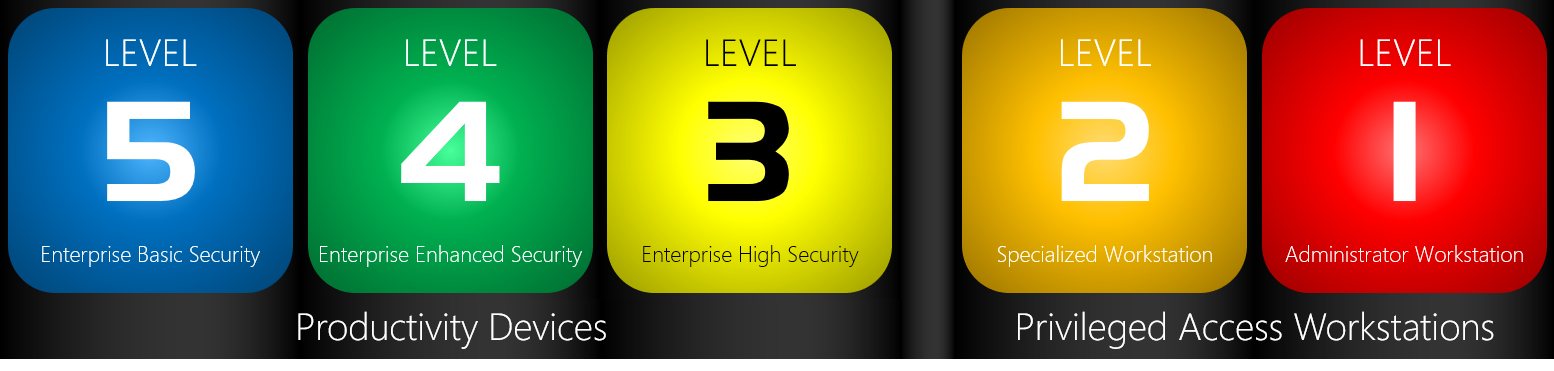
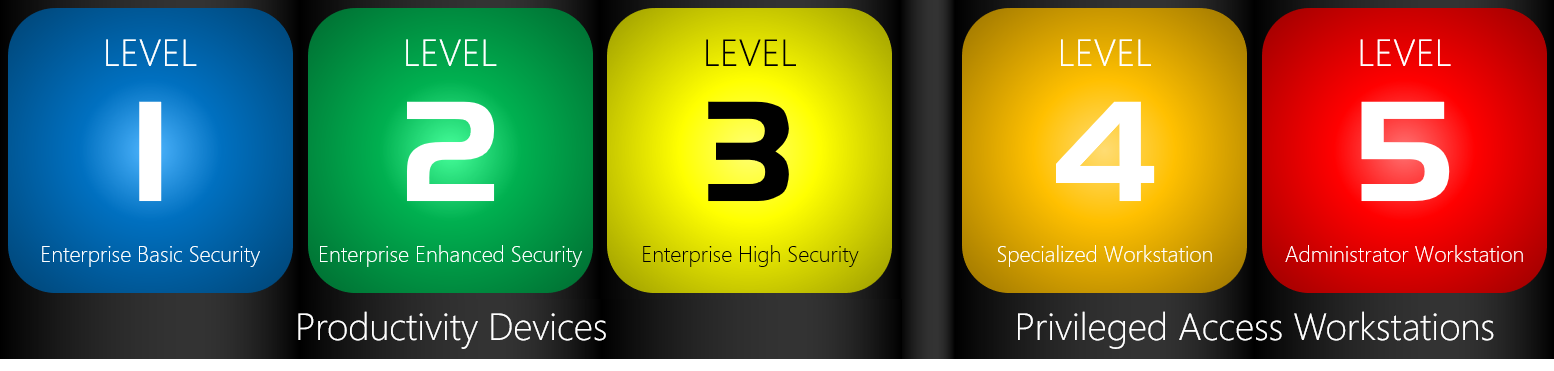
Inverted numbering scheme to align to ascending pattern from HW security and SecureScore

diff --git a/windows/security/threat-protection/windows-security-configuration-framework/level-2-enterprise-enhanced-security.md b/windows/security/threat-protection/windows-security-configuration-framework/level-2-enterprise-enhanced-security.md
@@ -1,6 +1,6 @@
 ---
-title: Level 4 enterprise high security configuration
-description: Describes the policies, controls, and organizational behaviors for Windows security configuration framework level 4 enterprise security configuration.
+title: Level 2 enterprise enhanced security configuration
+description: Describes the policies, controls, and organizational behaviors for Windows security configuration framework level 2 enterprise security configuration.
 keywords: virtualization, security, malware
 ms.prod: w10
 ms.mktglfcycl: deploy
@@ -11,21 +11,21 @@ manager: dansimp
 audience: ITPro
 ms.collection: M365-security-compliance
 ms.topic: conceptual
-ms.date: 04/05/2018
+ms.date: 05/29/2019
 ---
 
-# Level 4 Enterprise Enhanced Security configuration
+# Level 2 enterprise enhanced security configuration
 
 **Applies to**  
 
 -   Windows 10
 
-Level 4 is the security configuration recommended as a standard for devices where users access more sensitive information. These devices are a natural target in enterprises today. While targeting high levels of security, these recommendations do not assume a large staff of highly skilled security practitioners, and therefore should be accessible to most enterprise organizations.
-A level 4 configuration should include all the configurations from level 5 and add the following security policies, controls, and organizational behaviors.
+Level 2 is the security configuration recommended as a standard for devices where users access more sensitive information. These devices are a natural target in enterprises today. While targeting high levels of security, these recommendations do not assume a large staff of highly skilled security practitioners, and therefore should be accessible to most enterprise organizations.
+A level 2 configuration should include all the configurations from level 1 and add the following security policies, controls, and organizational behaviors.
 
 ## Hardware
 
-Devices targeting Level 4 should support all Level 5 features, and add the following hardware features:
+Devices targeting level 2 should support all level 1 features, and add the following hardware features:
 
 - [Virtualization and HVCI Enabled](https://docs.microsoft.com/en-us/windows-hardware/design/device-experiences/oem-vbs)
 - [Drivers and Apps HVCI-Ready](https://docs.microsoft.com/en-us/windows-hardware/test/hlk/testref/driver-compatibility-with-device-guard)
@@ -34,14 +34,14 @@ Devices targeting Level 4 should support all Level 5 features, and add the follo
 
 ## Policies
 
-The policies enforced in level 4 include all of the policies recommended for level 5 and adds the
+The policies enforced in level 2 include all of the policies recommended for level 1 and adds the
 below policies to implement more controls and a more sophisticated security
-configuration than level 5. While they may have a slightly higher impact to
+configuration than level 1. While they may have a slightly higher impact to
 users or to applications, they enforce a level of security more commensurate
 with the risks facing users with access to sensitive information. Microsoft
 recommends using [the rings methodology](https://docs.microsoft.com/windows/deployment/update/waas-deployment-rings-windows-10-updates) for these security configurations and
 controls, with a moderate timeline that is anticipated to be slightly longer
-than the process in level 5.
+than the process in level 1.
 
 ### Security Template Policies
 
@@ -100,13 +100,13 @@ Microsoft recommends disabling the following services when their use is not requ
 
 ## Controls
 
-The controls enforced in level 4 implement more controls and a more sophisticated security
-configuration than level 5. While they may have a slightly higher impact to
+The controls enforced in level 2 implement more controls and a more sophisticated security
+configuration than level 1. While they may have a slightly higher impact to
 users or to applications, they enforce a level of security more commensurate
 with the risks facing users with access to sensitive information. Microsoft
 recommends using the Audit/Enforce methodology for controls with an Audit mode,
 and [the rings methodology](https://docs.microsoft.com/windows/deployment/update/waas-deployment-rings-windows-10-updates) for those that do not, with a moderate timeline that
-is anticipated to be slightly longer than the process in level 5.
+is anticipated to be slightly longer than the process in level 1.
 
 | Feature Set                                                 | Feature                                               | Description    |
 |-------------------------------------------------------------|-------------------------------------------------------|----------------|
@@ -118,7 +118,7 @@ is anticipated to be slightly longer than the process in level 5.
 
 ## Behaviors
 
-The behaviors recommended in level 4 implement a more sophisticated security process. While they may require a more sophisticated organization, they enforce
+The behaviors recommended in level 2 implement a more sophisticated security process. While they may require a more sophisticated organization, they enforce
 a level of security more commensurate with the risks facing users with access to
 sensitive information.
 

diff --git a/windows/security/threat-protection/windows-security-configuration-framework/level-1-enterprise-basic-security.md b/windows/security/threat-protection/windows-security-configuration-framework/level-1-enterprise-basic-security.md
@@ -1,6 +1,6 @@
 ---
-title: Level 5 enterprise security configuration
-description: Describes the policies, controls, and organizational behaviors for Windows security configuration framework level 5 enterprise security configuration.
+title: Level 1 enterprise basic security configuration
+description: Describes the policies, controls, and organizational behaviors for Windows security configuration framework level 1 enterprise security configuration.
 keywords: virtualization, security, malware
 ms.prod: w10
 ms.mktglfcycl: deploy
@@ -11,21 +11,21 @@ manager: dansimp
 audience: ITPro
 ms.collection: M365-security-compliance
 ms.topic: conceptual
-ms.date: 04/05/2018
+ms.date: 05/29/2019
 ---
 
-# Level 5 Enterprise Basic Security configuration 
+# Level 1 Enterprise Basic Security configuration 
 
 **Applies to**  
 
 -   Windows 10
 
-Level 5 is the minimum security configuration for an enterprise device.
-Microsoft recommends the following configuration for level 5 devices.
+Level 1 is the minimum security configuration for an enterprise device.
+Microsoft recommends the following configuration for level 1 devices.
 
 ## Hardware
 
-Devices targeting Level 5 should support the following hardware features:
+Devices targeting Level 1 should support the following hardware features:
 
 - [Trusted Platform Module (TPM) 2.0](https://docs.microsoft.com/en-us/windows-hardware/design/device-experiences/oem-tpm)
 - [Bitlocker Drive Encryption](https://docs.microsoft.com/en-us/windows-hardware/design/device-experiences/oem-bitlocker)
@@ -34,7 +34,7 @@ Devices targeting Level 5 should support the following hardware features:
 
 ## Policies
 
-The policies in level 5 enforce a reasonable security level while minimizing the impact to users or to applications. 
+The policies in level 1 enforce a reasonable security level while minimizing the impact to users or to applications. 
 Microsoft recommends using [the rings methodology](https://docs.microsoft.com/windows/deployment/update/waas-deployment-rings-windows-10-updates) for these security configurations and controls, noting that the timeline can generally be short given the limited potential impact of the security controls.
 
 ### Security Template Policies
@@ -336,7 +336,7 @@ Microsoft recommends using [the rings methodology](https://docs.microsoft.com/wi
 
 ## Controls
 
-The controls enabled in level 5 enforce a reasonable security level while minimizing the impact to users and applications. 
+The controls enabled in level 1 enforce a reasonable security level while minimizing the impact to users and applications. 
 
 | Feature                           | Config                              | Description        |
 |-----------------------------------|-------------------------------------|--------------------|
@@ -350,7 +350,7 @@ The controls enabled in level 5 enforce a reasonable security level while minimi
 
 ## Behaviors
 
-The behaviors recommended in level 5 enforce a reasonable security level while minimizing the impact to users or to applications.
+The behaviors recommended in level 1 enforce a reasonable security level while minimizing the impact to users or to applications.
 
 | Feature | Config            | Description |
 |---------|-------------------|-------------|

diff --git a/windows/security/threat-protection/windows-security-configuration-framework/level-3-enterprise-high-security.md b/windows/security/threat-protection/windows-security-configuration-framework/level-3-enterprise-high-security.md
@@ -1,5 +1,5 @@
 ---
-title: Level 3 enterprise VIP security configuration
+title: Level 3 enterprise high security configuration
 description: Describes the policies, controls, and organizational behaviors for Windows security configuration framework level 3 enterprise VIP security configuration.
 keywords: virtualization, security, malware
 ms.prod: w10
@@ -11,28 +11,28 @@ manager: dansimp
 audience: ITPro
 ms.collection: M365-security-compliance
 ms.topic: conceptual
-ms.date: 04/05/2018
+ms.date: 05/29/2019
 ---
 
-# Level 3 Enterprise High Security configuration
+# Level 3 enterprise high security configuration
 
 **Applies to**  
 
 -   Windows 10
 
 Level 3 is the security configuration recommended as a standard for organizations with large and sophisticated security organizations, or for specific users and groups who will be uniquely targeted by adversaries. Such organizations are typically targeted by well-funded and sophisticated adversaries, and as such merit the additional constraints and controls described here.
-A level 3 configuration should include all the configurations from level 5 and level 4 and add the following security policies, controls, and organizational behaviors.
+A level 3 configuration should include all the configurations from level 2 and level 1 and add the following security policies, controls, and organizational behaviors.
 
 ## Hardware
 
-Devices targeting Level 3 should support all Level 5 and Level 4 features, and add the following hardware features:
+Devices targeting Level 3 should support all Level 2 and Level 1 features, and add the following hardware features:
 
 - [System Guard](https://docs.microsoft.com/en-us/windows/security/threat-protection/windows-defender-system-guard/system-guard-how-hardware-based-root-of-trust-helps-protect-windows)
 - [Modern Standby](https://docs.microsoft.com/en-us/windows-hardware/design/device-experiences/modern-standby)
 
 ## Policies
 
-The policies enforced in level 3 include all of the policies recommended for levels 5 and 4, and adds the below policies to
+The policies enforced in level 3 include all of the policies recommended for levels 2 and 1, and adds the below policies to
 implement strict security configuration and controls. They can have a potentially significant impact to users or to applications, enforcing
 a level of security commensurate with the risks facing targeted organizations. Microsoft recommends disciplined testing and deployment using
 [the rings methodology](https://docs.microsoft.com/windows/deployment/update/waas-deployment-rings-windows-10-updates).

diff --git a/windows/security/threat-protection/windows-security-configuration-framework/level-5-enterprise-administrator-security.md b/windows/security/threat-protection/windows-security-configuration-framework/level-5-enterprise-administrator-security.md
@@ -1,5 +1,5 @@
 ---
-title: Level 1 enterprise administrator workstation security
+title: Level 5 enterprise administrator workstation security
 description: Describes the policies, controls, and organizational behaviors for Windows security configuration framework level 1 enterprise administrator security configuration.
 keywords: virtualization, security, malware
 ms.prod: w10
@@ -11,10 +11,10 @@ manager: dansimp
 audience: ITPro
 ms.collection: M365-security-compliance
 ms.topic: conceptual
-ms.date: 04/05/2018
+ms.date: 05/29/2019
 ---
 
-# Level 1 enterprise administrator workstation security configuration
+# Level 5 enterprise administrator workstation security configuration
 
 **Applies to**  
 
@@ -22,4 +22,4 @@ ms.date: 04/05/2018
 
 
 Administrators (particularly of identity or security systems) present the highest risk to the organization−through data theft, data alteration, or service disruption. 
-A level 1 configuration should include all the configurations from levels 5, 4, 3, and 2 and additional controls. We are planning recommendations for the additional controls now, so check back soon for level 1 enterprise administrator security configuration guidance!
+A level 5 configuration should include all the configurations from levels 4, 3, 2, and 1 and adds additional controls. We are planning recommendations for the additional controls now, so check back soon for level 5 enterprise administrator security configuration guidance!

diff --git a/windows/security/threat-protection/windows-security-configuration-framework/level-4-enterprise-devops-security.md b/windows/security/threat-protection/windows-security-configuration-framework/level-4-enterprise-devops-security.md
@@ -1,0 +1,27 @@
+---
+title: Level 4 enterprise dev/ops security workstation configuration
+description: Describes the policies, controls, and organizational behaviors for Windows security configuration framework level 4 enterprise dev/ops security configuration.
+keywords: virtualization, security, malware
+ms.prod: w10
+ms.mktglfcycl: deploy
+ms.localizationpriority: medium
+ms.author: appcompatguy
+author: appcompatguy
+manager: dansimp
+audience: ITPro
+ms.collection: M365-security-compliance
+ms.topic: conceptual
+ms.date: 05/29/2019
+---
+
+# Level 4 enterprise dev/ops workstation security configuration
+ 
+**Applies to**  
+
+-   Windows 10
+
+We recommend this configuration for developers and testers, who are an attractive target both for supply chain attacks and access to servers and systems containing high value data or where critical business functions could be disrupted. A level 4 configuration should include all the configurations from levels 3, 2, and 1 and additional controls. We are planning recommendations for the additional controls now, so check back soon for level 4 enterprise dev/ops security configuration guidance!
+
+
+
+

diff --git a/windows/security/threat-protection/windows-security-configuration-framework/TOC.md b/windows/security/threat-protection/windows-security-configuration-framework/TOC.md
@@ -4,8 +4,8 @@
 ### [Security Compliance Toolkit](security-compliance-toolkit-10.md)
 ### [Get support](get-support-for-security-baselines.md)
 ## [Windows security configuration framework](windows-security-configuration-framework.md)
-### [Level 5 Enterprise Basic Security](level-5-enterprise-security.md)
-### [Level 4 Enterprise Enhanced Security](level-4-enterprise-high-security.md)
-### [Level 3 Enterprise High Security](level-3-enterprise-vip-security.md)
-### [Level 2 enterprise dev/ops workstation](level-2-enterprise-devops-security.md)
-### [Level 1 enterprise administrator workstation](level-1-enterprise-administrator-security.md)
+### [Level 1 enterprise basic security](level-1-enterprise-basic-security.md)
+### [Level 2 enterprise enhanced security](level-2-enterprise-enhanced-security.md)
+### [Level 3 enterprise high security](level-3-enterprise-high-security.md)
+### [Level 4 enterprise dev/ops workstation](level-4-enterprise-devops-security.md)
+### [Level 5 enterprise administrator workstation](level-5-enterprise-administrator-security.md)
